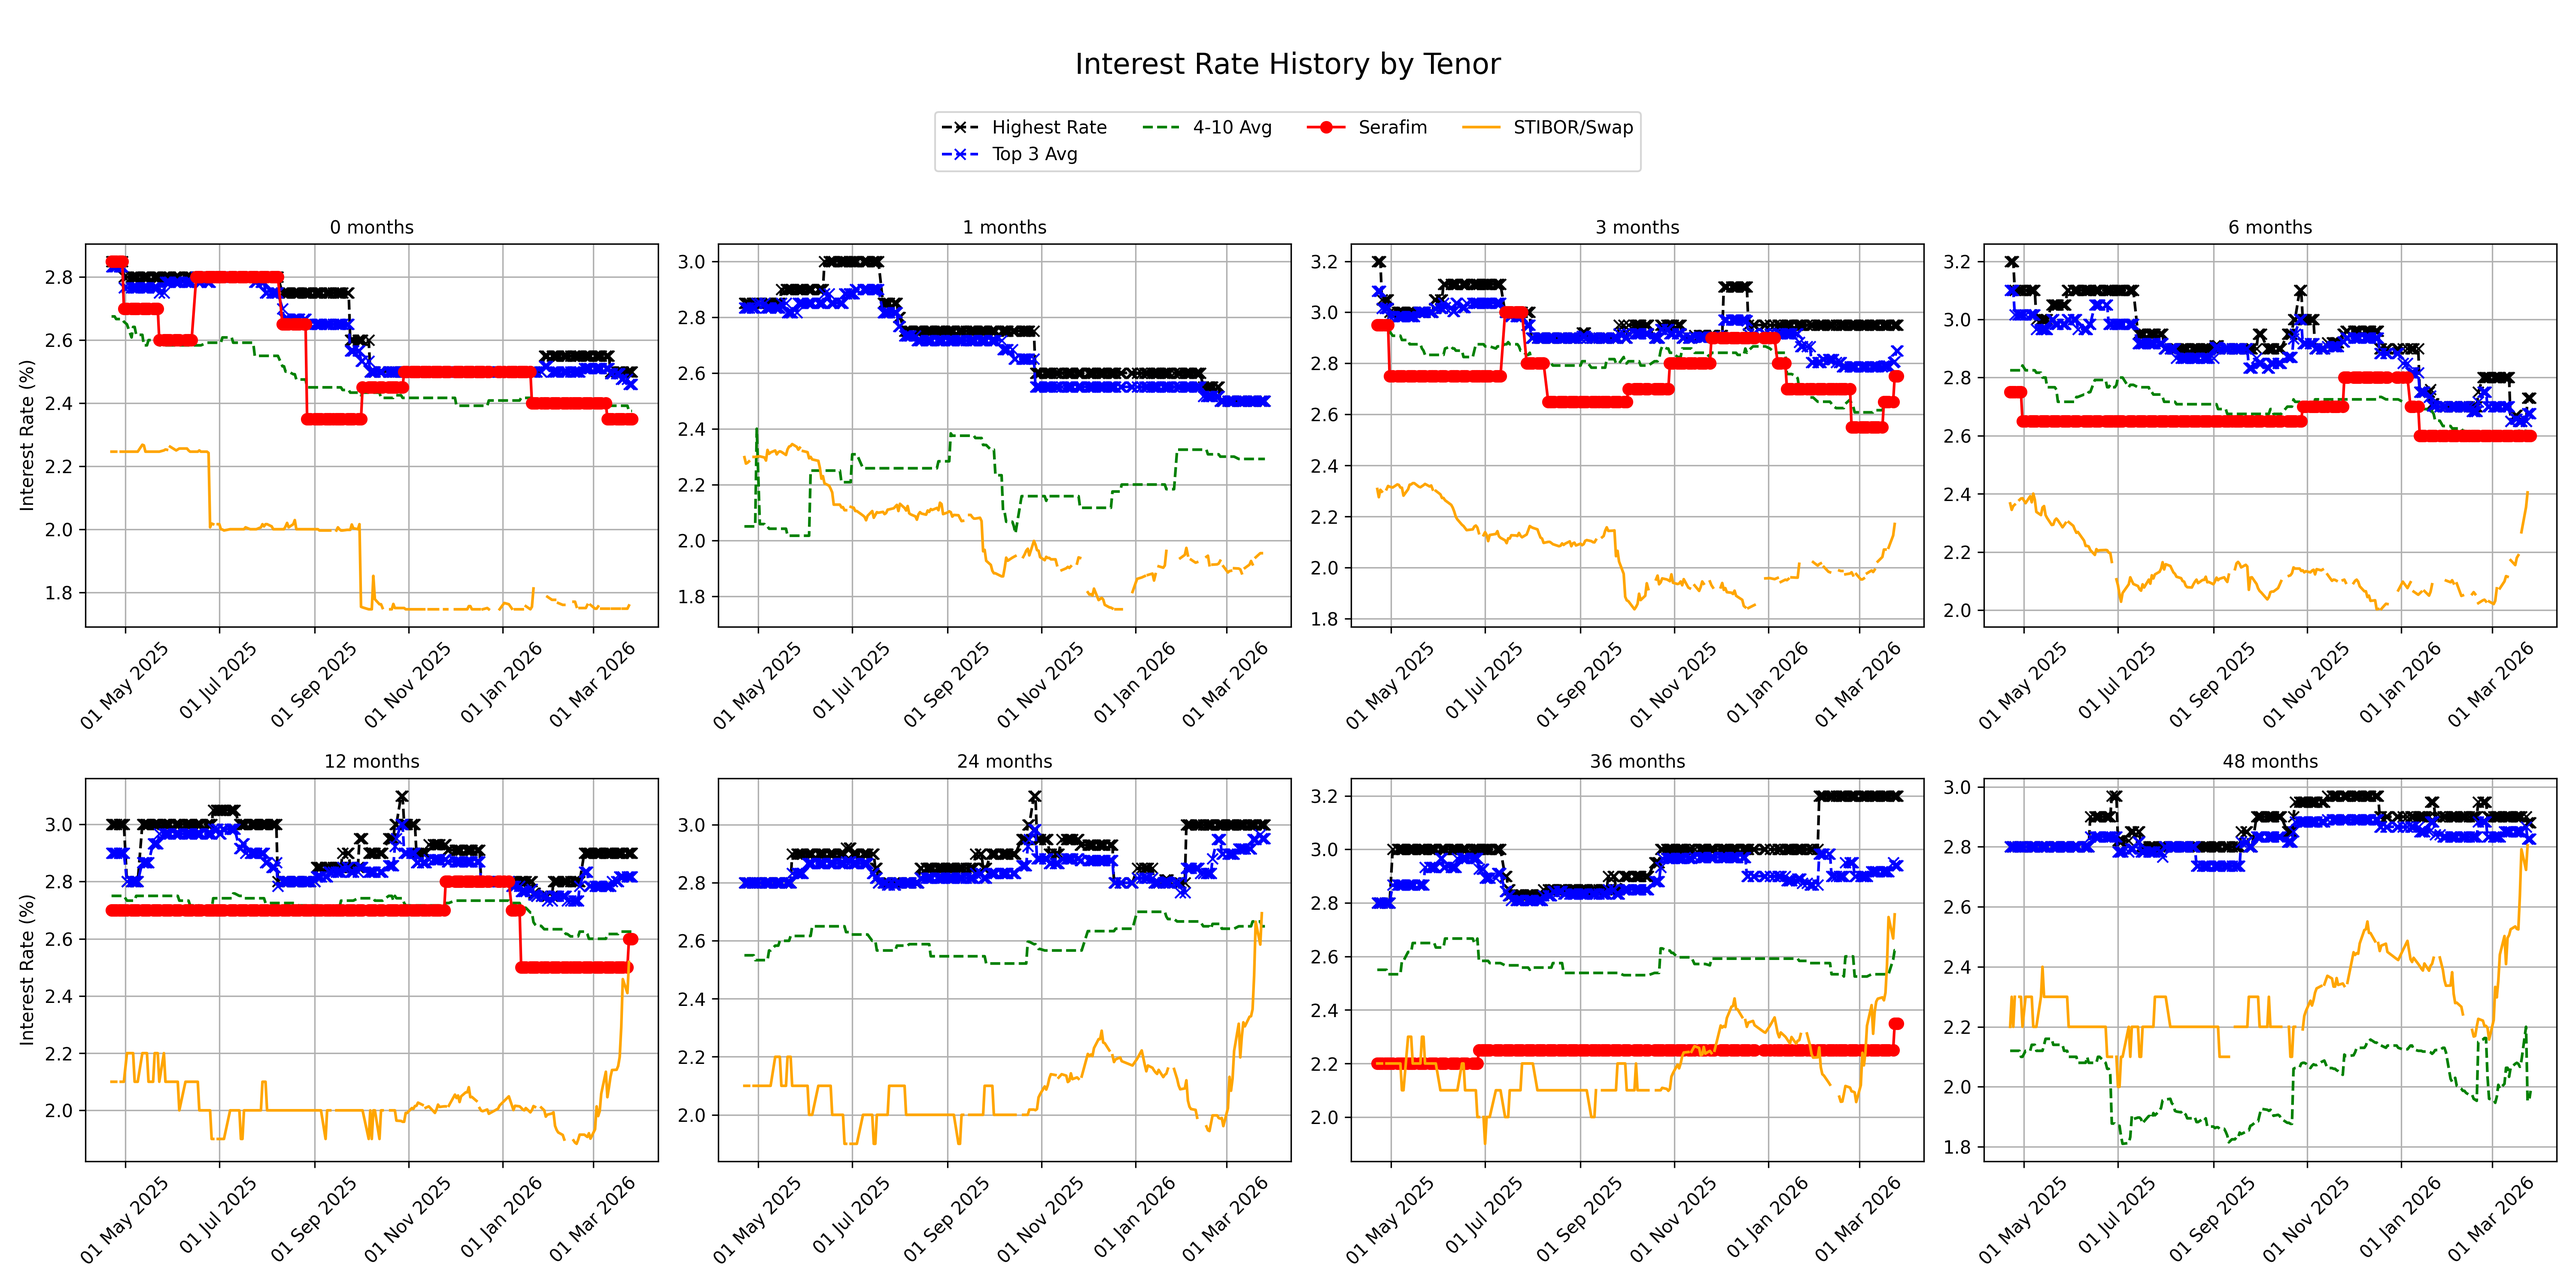
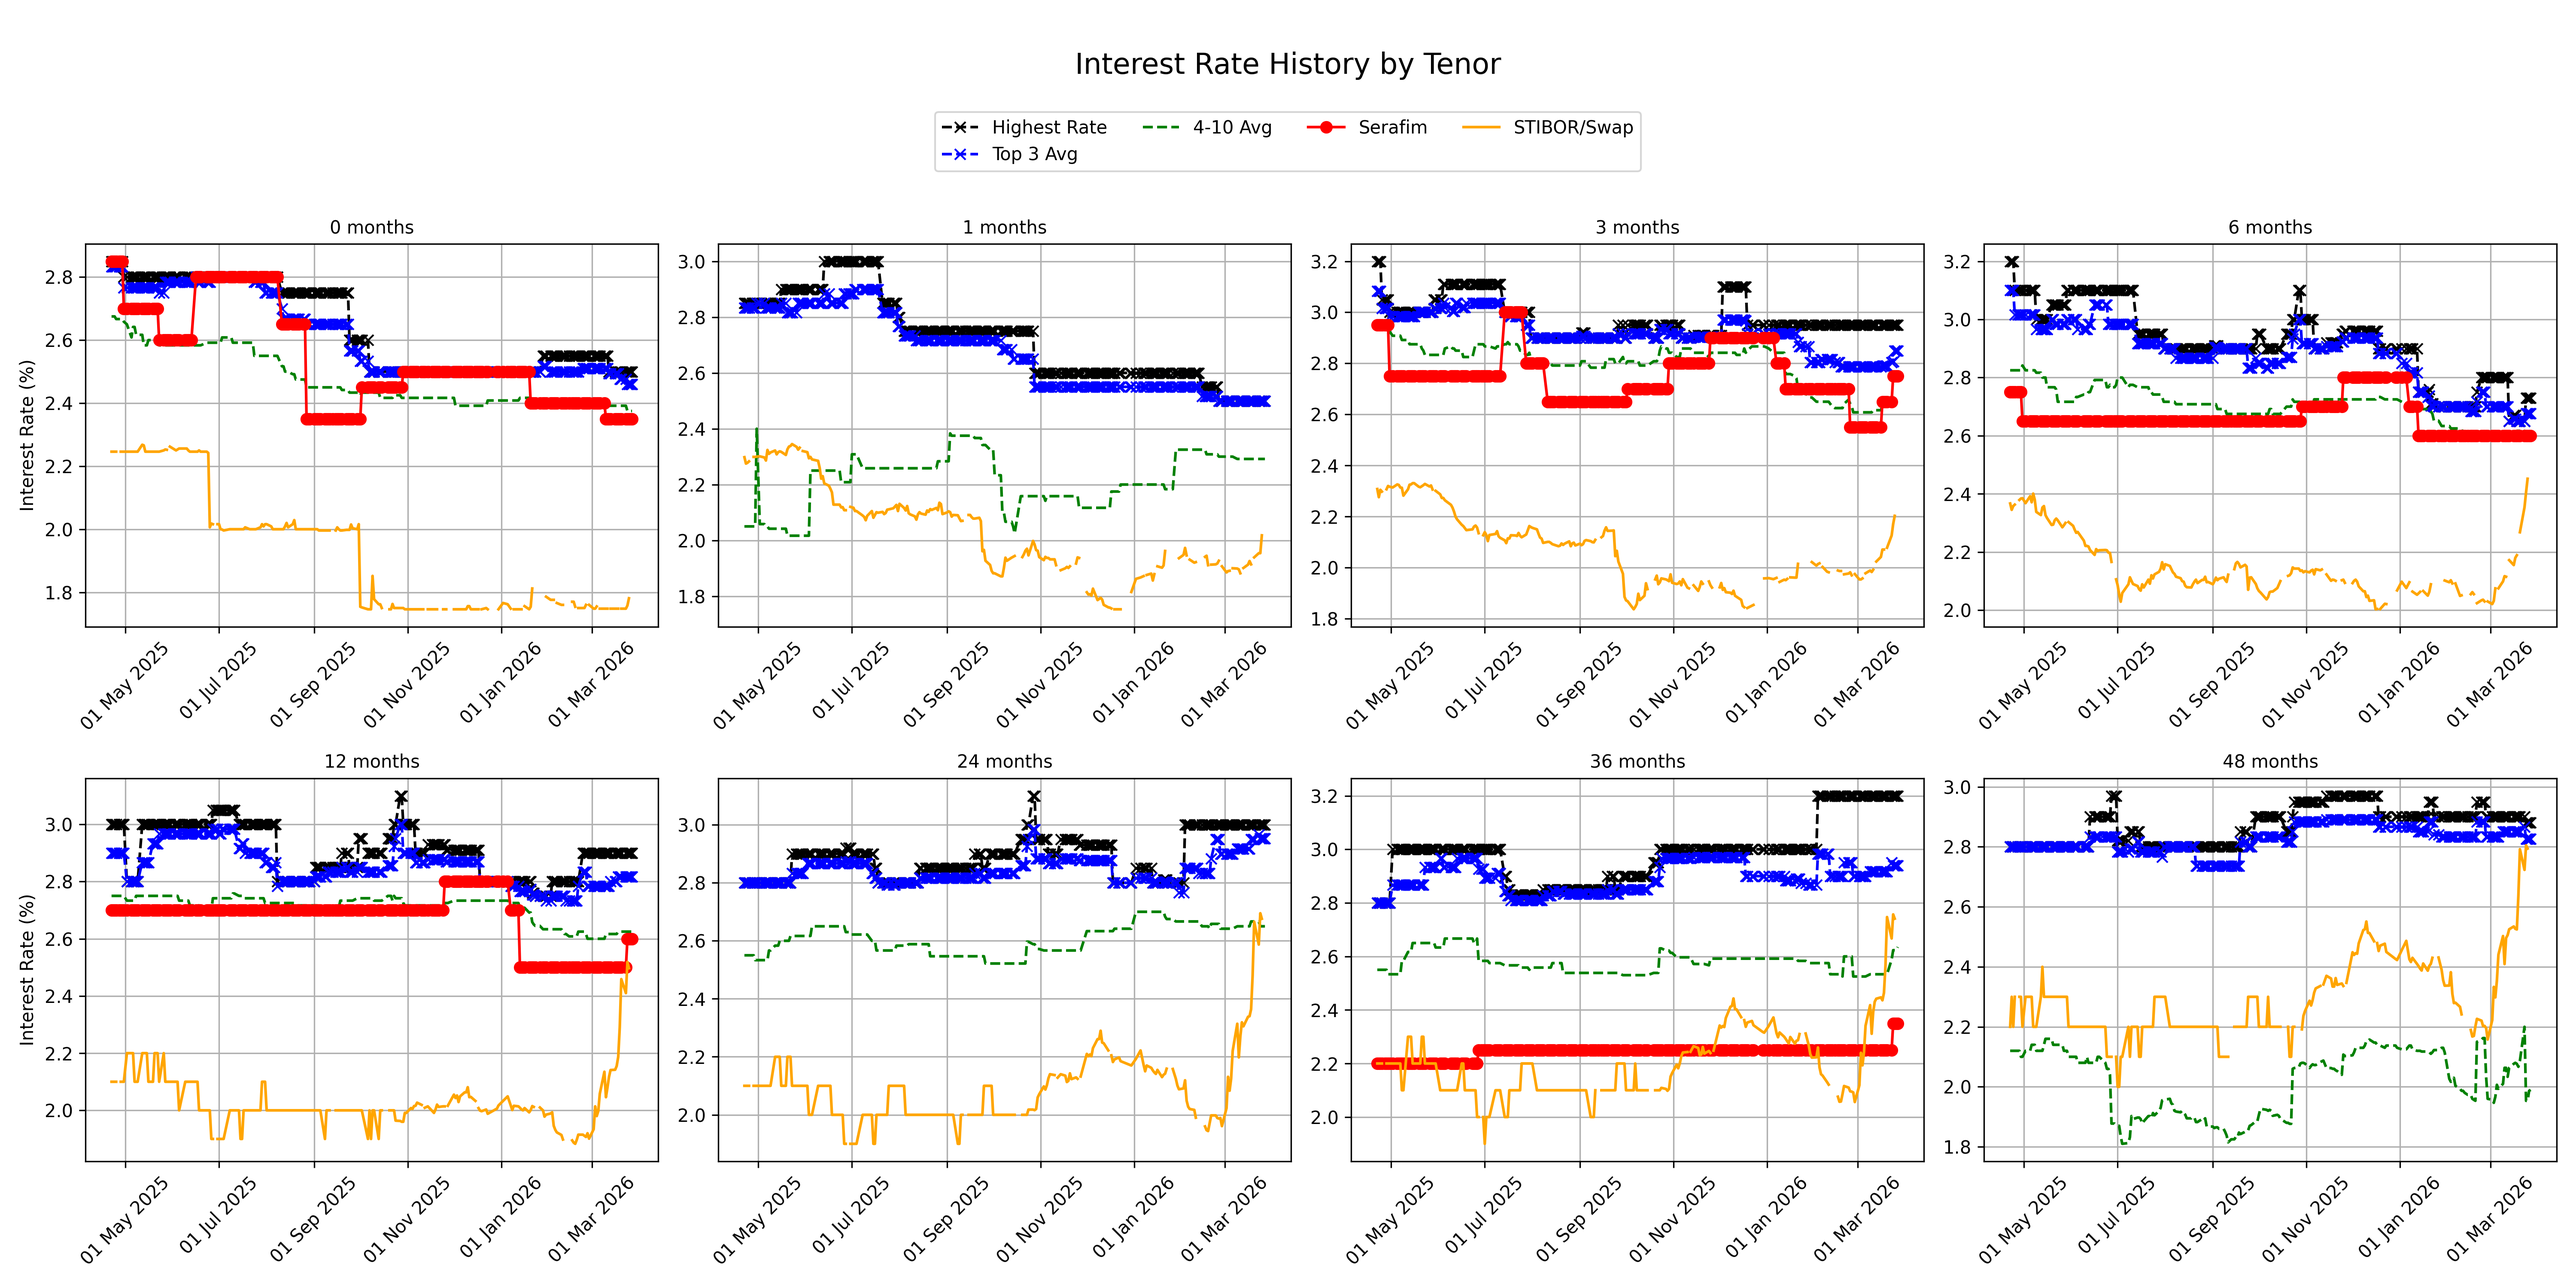
use

diff --git a/Serafim/index.html b/Serafim/index.html
@@ -81,7 +81,7 @@
 
     <h1>Competitor Overview - Serafim</h1>
     <div style="text-align: right; color: #555; font-size: 0.9em;">
-        Updated: 2026-03-26
+        Updated: 2026-03-27
     </div>
     
     <!-- Tab buttons -->
@@ -393,7 +393,7 @@
       <th>Northmill Bank</th>
       <td>2.00</td>
       <td>-</td>
-      <td>2.60</td>
+      <td>2.50 (-0.10)</td>
       <td>2.65</td>
       <td>-</td>
       <td>2.90</td>
@@ -716,13 +716,13 @@
       <td>0.05</td>
       <td>2.15</td>
       <td>1.60</td>
-      <td>1.85 (+0.05)</td>
+      <td>1.90 (+0.05)</td>
       <td>-</td>
-      <td>2.15 (+0.11)</td>
-      <td>2.35</td>
-      <td>2.49</td>
+      <td>2.15</td>
+      <td>2.42 (+0.07)</td>
+      <td>2.56 (+0.07)</td>
       <td>-</td>
-      <td>2.70 (-0.01)</td>
+      <td>2.76 (+0.06)</td>
       <td>-</td>
     </tr>
     <tr>
@@ -761,10 +761,10 @@
       <td>1.75</td>
       <td>-</td>
       <td>1.90</td>
-      <td>2.15 (+0.12)</td>
-      <td>2.21 (+0.11)</td>
-      <td>2.26 (+0.10)</td>
-      <td>2.07 (+0.12)</td>
+      <td>2.15</td>
+      <td>2.22 (+0.01)</td>
+      <td>2.27 (+0.01)</td>
+      <td>2.07</td>
       <td>-</td>
     </tr>
     <tr>
@@ -822,17 +822,31 @@
   </thead>
   <tbody>
     <tr>
+      <th>Northmill Bank</th>
+      <td>2.00</td>
+      <td>-</td>
+      <td>2.50 (-0.10)</td>
+      <td>2.65</td>
+      <td>-</td>
+      <td>2.90</td>
+      <td>3.00</td>
+      <td>-</td>
+      <td>-</td>
+      <td>-</td>
+      <td>-</td>
+    </tr>
+    <tr>
       <th>Handelsbanken</th>
       <td>0.05</td>
       <td>2.15</td>
       <td>1.60</td>
-      <td>1.85 (+0.05)</td>
+      <td>1.90 (+0.05)</td>
       <td>-</td>
-      <td>2.15 (+0.11)</td>
-      <td>2.35</td>
-      <td>2.49</td>
+      <td>2.15</td>
+      <td>2.42 (+0.07)</td>
+      <td>2.56 (+0.07)</td>
       <td>-</td>
-      <td>2.70 (-0.01)</td>
+      <td>2.76 (+0.06)</td>
       <td>-</td>
     </tr>
     <tr>
@@ -843,10 +857,10 @@
       <td>1.75</td>
       <td>-</td>
       <td>1.90</td>
-      <td>2.15 (+0.12)</td>
-      <td>2.21 (+0.11)</td>
-      <td>2.26 (+0.10)</td>
-      <td>2.07 (+0.12)</td>
+      <td>2.15</td>
+      <td>2.22 (+0.01)</td>
+      <td>2.27 (+0.01)</td>
+      <td>2.07</td>
       <td>-</td>
     </tr>
   </tbody>
